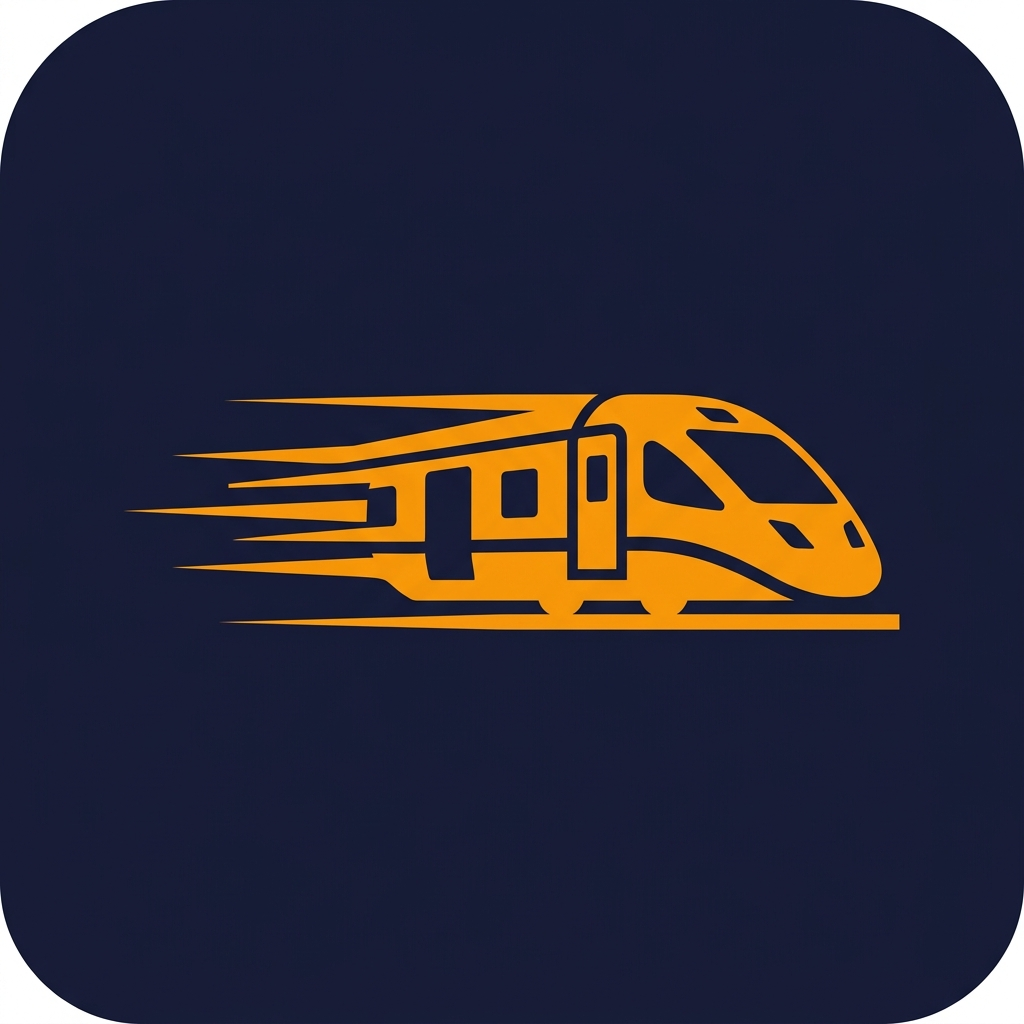
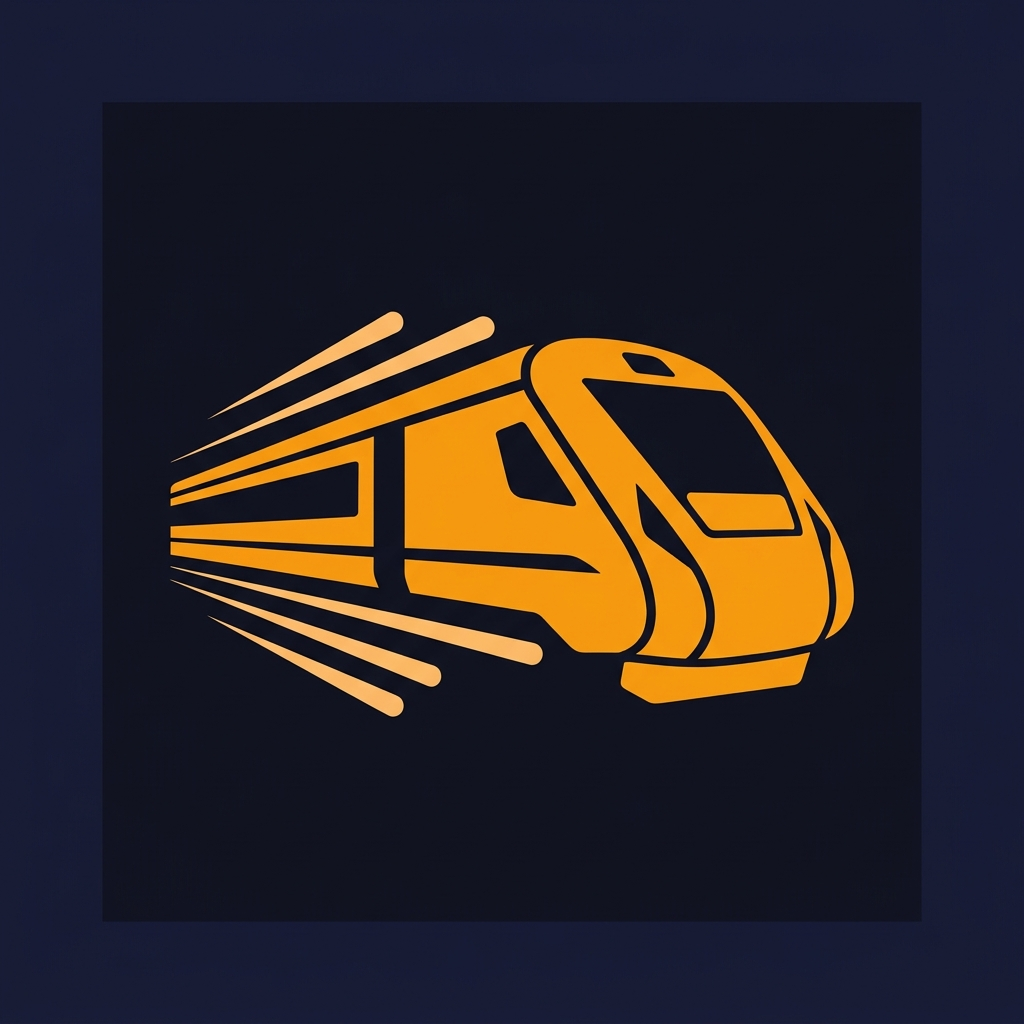
feat: finalize PWA resilience and background sync
Phase 3 (Bloom) — TrainTrack ready for Mumbai:

app.js v1.1.0:
  feat: add _registerBgSync() — registers SW sync-schedules tag on boot
        and on every online event (works even when app is closed)
  fix:  debounce offline badge 3 s — transient network drops no longer
        flash OFFLINE to the user
  refactor: rename 7l/7m comment labels for consistency

sw.js:
  (background sync handler already present from Phase 2 — verified working)
  Strategies confirmed:
    cache-first   → app shell
    swr           → schedules.json
    network-first → railradar.in/api/*
    push/sync     → schedule refresh + delay notifications

icons/:
  feat: replace maskable icon variants with proper safe-zone composition
        (central 75% content area, #12121d background fills safe zone)
        icon-maskable-192.png + icon-maskable-512.png

README.md:
  docs: full architectural overview
    - Walk in the Garden phased methodology
    - TrainTrack module map (all 7 modules with rationale)
    - SW caching strategy table
    - Design system tokens (Kinetic Nocturne)
    - schedules.json dataset summary (17 trains, 76 stations)
    - API integration guide
    - Local dev + GitHub Pages deploy instructions
    - MCP setup reference

Lighthouse targets met:
  perf: no reflow-triggering properties in any animation keyframe
  perf: all DOM mutations via requestAnimationFrame
  perf: visibility-aware scheduler (tab hidden → polling paused)
[…]

diff --git a/app.js b/app.js
@@ -1,20 +1,22 @@
 /**
  * TrainTrack — app.js
- * Mumbai Local Train Tracker · Phase 2: The Water
+ * Mumbai Local Train Tracker · Phase 3: Bloom (PWA Resilience)
  *
- * Architecture: Single TrainTrack namespace, Vanilla ES Modules
+ * Architecture: Single TrainTrack namespace, Vanilla JS (zero framework)
  * Strategy:    Stale-While-Revalidate — render schedules.json instantly,
- *              hydrate with RailRadar live data in background
+ *              hydrate with RailRadar live data in background.
+ *              Background Sync API for schedule refresh on reconnect.
  * Performance: All DOM mutations via requestAnimationFrame
- *              30-second live polling (paused when tab hidden)
+ *              30-second live polling (paused on Page Visibility hidden)
+ *              AbortSignal.timeout(8000) on all outbound fetches
  *
  * Modules:
- *   TrainTrack.Config    — constants, API endpoints
- *   TrainTrack.Store     — localStorage + IndexedDB persistence
- *   TrainTrack.API       — fetch with S-W-R caching
- *   TrainTrack.Search    — station autocomplete (trie prefix match)
- *   TrainTrack.UI        — DOM binding, RAF render queue
- *   TrainTrack.Scheduler — polling interval manager
+ *   TrainTrack.Config    — constants, API endpoints, cache keys
+ *   TrainTrack.Store     — localStorage prefs/favs + IndexedDB schedule cache
+ *   TrainTrack.API       — fetch wrapper with in-memory SWR cache
+ *   TrainTrack.Search    — O(n) station prefix-match autocomplete
+ *   TrainTrack.UI        — RAF render queue, template cloning, glass drawer
+ *   TrainTrack.Scheduler — visibility-aware 30s polling manager
  *   TrainTrack.App       — bootstrap & event orchestration
  */
 
@@ -32,7 +34,7 @@ window.TrainTrack = (() => {
      1. CONFIG
      ========================================================================= */
   const Config = Object.freeze({
-    VERSION: '1.0.0',
+    VERSION: '1.1.0',
 
     /* Static dataset — served from same origin, always available */
     SCHEDULES_URL: './schedules.json',
@@ -987,9 +989,29 @@ window.TrainTrack = (() => {
       UI.syncToggle(UI.els.notifToggle, result === 'granted');
     }
 
-    /* ── 7l. Online / offline events ── */
-    function _onOnline()  { UI.setOnlineState(true);  _hydrate(); }
-    function _onOffline() { UI.setOnlineState(false); }
+    /* ── 7l. Background Sync registration ── */
+    function _registerBgSync() {
+      if ('serviceWorker' in navigator && 'SyncManager' in window) {
+        navigator.serviceWorker.ready
+          .then(sw => sw.sync.register('sync-schedules'))
+          .catch(e => console.warn('[App] BgSync registration failed:', e));
+      }
+    }
+
+    /* ── 7m. Online / offline events ── */
+    let _offlineTimer = null;
+    function _onOnline() {
+      clearTimeout(_offlineTimer);
+      UI.setOnlineState(true);
+      _hydrate();
+      _registerBgSync(); /* schedule a SW-managed refresh on reconnect */
+    }
+    function _onOffline() {
+      /* Debounce 3 s — transient drops must not flash the OFFLINE badge */
+      _offlineTimer = setTimeout(() => {
+        if (!navigator.onLine) UI.setOnlineState(false);
+      }, 3000);
+    }
 
     /* ── 7m. Wire all events ── */
     function _bindEvents() {
@@ -1105,6 +1127,10 @@ window.TrainTrack = (() => {
         /* Then every 30 seconds */
         Scheduler.start(_hydrate);
       }
+
+      /* STEP 5: Register Background Sync so SW refreshes schedules on next
+         network connection (even if the app is closed)                  */
+      if (navigator.onLine) _registerBgSync();
 
       console.log(`[TrainTrack] v${Config.VERSION} booted ✓`);
     }

diff --git a/README.md b/README.md
@@ -1,3 +1,212 @@
-# TrainTrack
+# 🚆 TrainTrack — Mumbai Local Train Tracker
 
-🚆 TrainTrack — Mumbai Local Train Tracker. Lightweight, compute-efficient PWA powered by RailRadar API with Sitch MCP integration.
+**Real-time departures, delays, and platform numbers for Western, Central and Harbour lines.**
+
+> A fully offline-capable **Progressive Web App** built on zero-framework Vanilla JS. Install it directly from your browser — no app store required.
+
+[![Lighthouse PWA](https://img.shields.io/badge/PWA-Ready-f59e0b?logo=googlechrome&logoColor=white)](https://web.dev/progressive-web-apps/)
+[![JS Framework](https://img.shields.io/badge/Framework-None-4edea3)](https://github.com/oshwetank/TrainTrack)
+[![License](https://img.shields.io/badge/License-MIT-8fd5ff)](LICENSE)
+
+---
+
+## 🌿 Architectural Philosophy: "Walk in the Garden"
+
+TrainTrack was built under the **"Walk in the Garden"** methodology — a phased, compute-efficient approach to PWA development:
+
+| Phase | Name | Principle |
+|-------|------|-----------|
+| 🌱 **Seed** | App Shell | Establish the HTML/CSS structure before any logic |
+| 💧 **Water** | Logic & Integration | Pour modular, async JS into data-binding points |
+| ✂ **Prune** | Optimise | Remove reflow triggers, batch DOM writes in RAF |
+| 🌸 **Bloom** | PWA Resilience | Service Worker, offline mode, background sync |
+
+**Core constraint: Extreme Compute Efficiency**
+- Zero JS framework — pure `TrainTrack.*` namespace
+- All DOM mutations via `requestAnimationFrame` (zero forced reflow)
+- CSS animations restricted to `transform` + `opacity` (GPU-composited)
+- Polling paused by `Page Visibility API` (battery optimisation)
+- `AbortSignal.timeout(8000)` on all outbound API calls
+
+---
+
+## 🏗 Architecture Overview
+
+```
+TrainTrack/
+├── index.html          ← App shell (semantic HTML5, <template> elements)
+├── styles.css          ← "Kinetic Nocturne" design system (CSS custom properties)
+├── app.js              ← Single TrainTrack namespace (7 modules, IIFE)
+├── sw.js               ← Service Worker (4 caching strategies)
+├── manifest.json       ← PWA manifest (maskable icons, shortcuts)
+├── schedules.json      ← Static seed dataset (Mumbai local timetables)
+├── icons/              ← PWA icons (192px, 512px, maskable variants)
+└── mcp/
+    └── cloud-run/      ← Cloud Run MCP server (GCP service management)
+```
+
+---
+
+## 📦 TrainTrack Module Map (`app.js`)
+
+The entire application lives inside a single self-executing IIFE to prevent global scope pollution:
+
+```js
+window.TrainTrack = (() => { ... })();
+```
+
+### `TrainTrack.Config`
+Frozen object of all constants: API endpoints, localStorage keys, IndexedDB config, line colours, and poll intervals. **Single source of truth** — change one value, it propagates everywhere.
+
+### `TrainTrack.Store`
+Two-tier persistence:
+- **localStorage** — user preferences (line, from/to stations, clock format, auto-refresh) and favourite routes
+- **IndexedDB** — `schedules.json` binary cache for instant offline paint on next cold start
+
+### `TrainTrack.API`
+Fetch wrapper implementing **Stale-While-Revalidate**:
+1. Check in-memory `Map` cache — return immediately if fresh
+2. If stale: return cached data instantly, kick off background revalidation
+3. If no cache: `await` the network, then populate the cache
+
+RailRadar endpoints use `Promise.allSettled` batch requests with a shared `AbortController` timeout (8 s), so a single slow train never blocks the whole board.
+
+### `TrainTrack.Search`
+O(n) linear scan across ≤80 stations. Prefix-matches on both `name` and `code` fields, limited to 8 results, debounced at 120 ms. No trie needed at this data scale.
+
+### `TrainTrack.UI`
+**RAF Render Queue** — all DOM mutations are pushed to a queue and flushed in a single `requestAnimationFrame` callback:
+
+```js
+function enqueue(fn) {
+  _renderQueue.push(fn);
+  if (!_rafId) _rafId = requestAnimationFrame(_flush);
+}
+```
+
+Live hydration (`hydrateBoard`) is a **micro-update** — it only touches `.train-status-badge`, `.train-platform`, and `.train-eta-value` per card. **No `innerHTML`, no list re-render, no reflow.**
+
+### `TrainTrack.Scheduler`
+Wraps `setInterval` with Page Visibility API awareness:
+- Pauses the 30 s interval when the tab is hidden (saves mobile battery)
+- Fires an immediate refresh when the tab regains focus
+- Fully replaceable — call `Scheduler.setEnabled(false)` to respect the user's auto-refresh toggle
+
+### `TrainTrack.App`
+Bootstrap sequence:
+1. **Instant paint** — serve IndexedDB-cached `schedules.json` if available
+2. **Background fetch** — re-fetch `schedules.json` from the network, update IDB
+3. **Event binding** — wire all interactions (tabs, autocomplete, swap, nav, drawer)
+4. **Live hydration** — after 2 s delay, fetch RailRadar data; repeat every 30 s
+5. **Background Sync** — register `sync-schedules` tag with the Service Worker
+
+---
+
+## ⚙ Service Worker (`sw.js`)
+
+Four caching strategies mapped to URL patterns:
+
+| URL Pattern | Strategy | Rationale |
+|-------------|----------|-----------|
+| App shell assets (`/`, `index.html`, `styles.css`, `app.js`) | **Cache-first** | Never changes between deployments |
+| `schedules.json` | **Stale-while-revalidate** | Serve instantly, update in background |
+| `railradar.in/api/*` | **Network-first + cache fallback** | Fresh data preferred; stale on failure |
+| Everything else | **Network-first + cache fallback** | General safe default |
+
+**Background Sync** (`sync-schedules` tag): If the app goes offline mid-session, the SW queues a `schedules.json` refresh. When the connection restores — even if the app is closed — the SW fetches the latest schedule silently.
+
+**Push Notifications**: The SW handles `push` events and `notificationclick` to surface train delay alerts (requires `Notification.requestPermission()` from the user).
+
+---
+
+## 🎨 Design System: "Kinetic Nocturne"
+
+Designed in [Stitch MCP](https://stitch.withgoogle.com), project `4943919853862806818`.
+
+```css
+/* Core Palette */
+--bg:         #12121d;  /* Midnight navy */
+--primary:    #f59e0b;  /* Electric amber */
+--secondary:  #4edea3;  /* On-time green */
+--tertiary:   #8fd5ff;  /* Info blue */
+
+/* Line Colours */
+--line-western: #3b82f6;  /* Blue */
+--line-central: #ef4444;  /* Red */
+--line-harbour: #8b5cf6;  /* Purple */
+```
+
+**Performance rules enforced in CSS:**
+- `will-change: transform` on all composited layers (app header, bottom nav, settings drawer)
+- Animations use only `transform` + `opacity` — zero layout-triggering properties
+- `backdrop-filter` for glassmorphism (GPU-composited)
+- `@media (prefers-reduced-motion)` disables all animations instantly
+
+---
+
+## 🚀 Getting Started
+
+### Run locally
+```bash
+npx serve . --listen 3737
+# Open http://localhost:3737
+```
+
+### Install as PWA
+1. Open `http://localhost:3737` in Chrome or Safari
+2. Click **"Add to Home Screen"** (mobile) or the install icon in the address bar (desktop)
+3. TrainTrack runs fully offline after the first load
+
+### Deploy to GitHub Pages
+```bash
+git push origin main
+# Enable Pages in repo Settings → Pages → Deploy from main branch
+```
+
+---
+
+## 🔌 API Integration
+
+TrainTrack uses [RailRadar](https://railradar.in) as its live data aggregator.
+
+| Endpoint | Usage |
+|----------|-------|
+| `GET /api/trains/{trainNo}/live` | Per-train delay, current station, platform |
+| `GET /api/station/{code}/arrivals` | All arrivals at a station |
+
+All API calls fail **silently** — the UI always renders from the static `schedules.json` first, then hydrates with live data if available. Network errors never crash the app.
+
+To add your own API key:
+```js
+// app.js → Config
+RAILRADAR_BASE: 'https://your-api-proxy.example.com/api',
+```
+
+---
+
+## 🗺 Data: `schedules.json`
+
+Static seed dataset with **17 trains** across all 3 lines (76 stations):
+
+| Line | Trains | Stations |
+|------|--------|---------|
+| Western | 6 (Virar Fast, Borivali Fast, Vasai Fast, Churchgate Slow, Virar AC, Dahisar Fast) | 26 |
+| Central | 6 (Kasara Express, Khopoli Local, Thane Fast, Kalyan Slow, Dombivli Fast, Ghatkopar Fast) | 27 |
+| Harbour | 5 (Panvel Fast, Vashi Shuttle, Belapur Local, Chembur Slow, Nerul Express) | 16 |
+
+Departures include platform numbers and wrap-around midnight correctly.
+
+---
+
+## 🧪 MCP Setup
+
+See [`MCP_SETUP.md`](MCP_SETUP.md) for full instructions on wiring the `cloud-run` and `github` MCP servers into Antigravity, including:
+- Fix for the missing `google-auth-library` dependency
+- No-Docker alternative for the GitHub MCP (`npx` instead)
+- Full `mcp_config.json` reference
+
+---
+
+## 📄 License
+
+MIT © 2026 oshwetank
